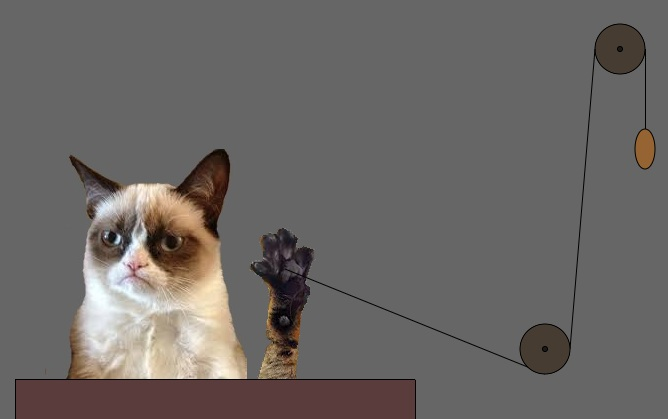
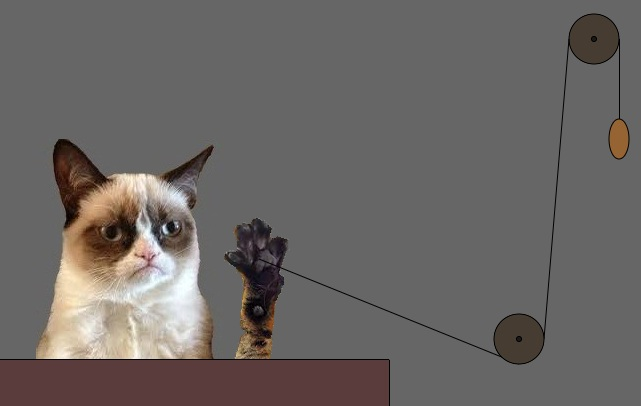
saludos cordiales mirando al otro lado

diff --git a/saludos_cordiales.html b/saludos_cordiales.html
@@ -86,14 +86,14 @@
 							  
 							  popMatrix();
 							  nudo.move(angle);
-							  image(body1, 50, 150);
+							  image(body1, 67, 150);
 							  fill(70, 60, 50);
 							  nudo.display();
 							  ellipse(550, 350, 50,50);
 							  fill(25);
 							  ellipse(550, 350, 5,5);
 							  fill(90, 60, 60);
-							  rect(20,380,400,70);
+							  rect(20,370,400,70);
 
 							  
 							}
